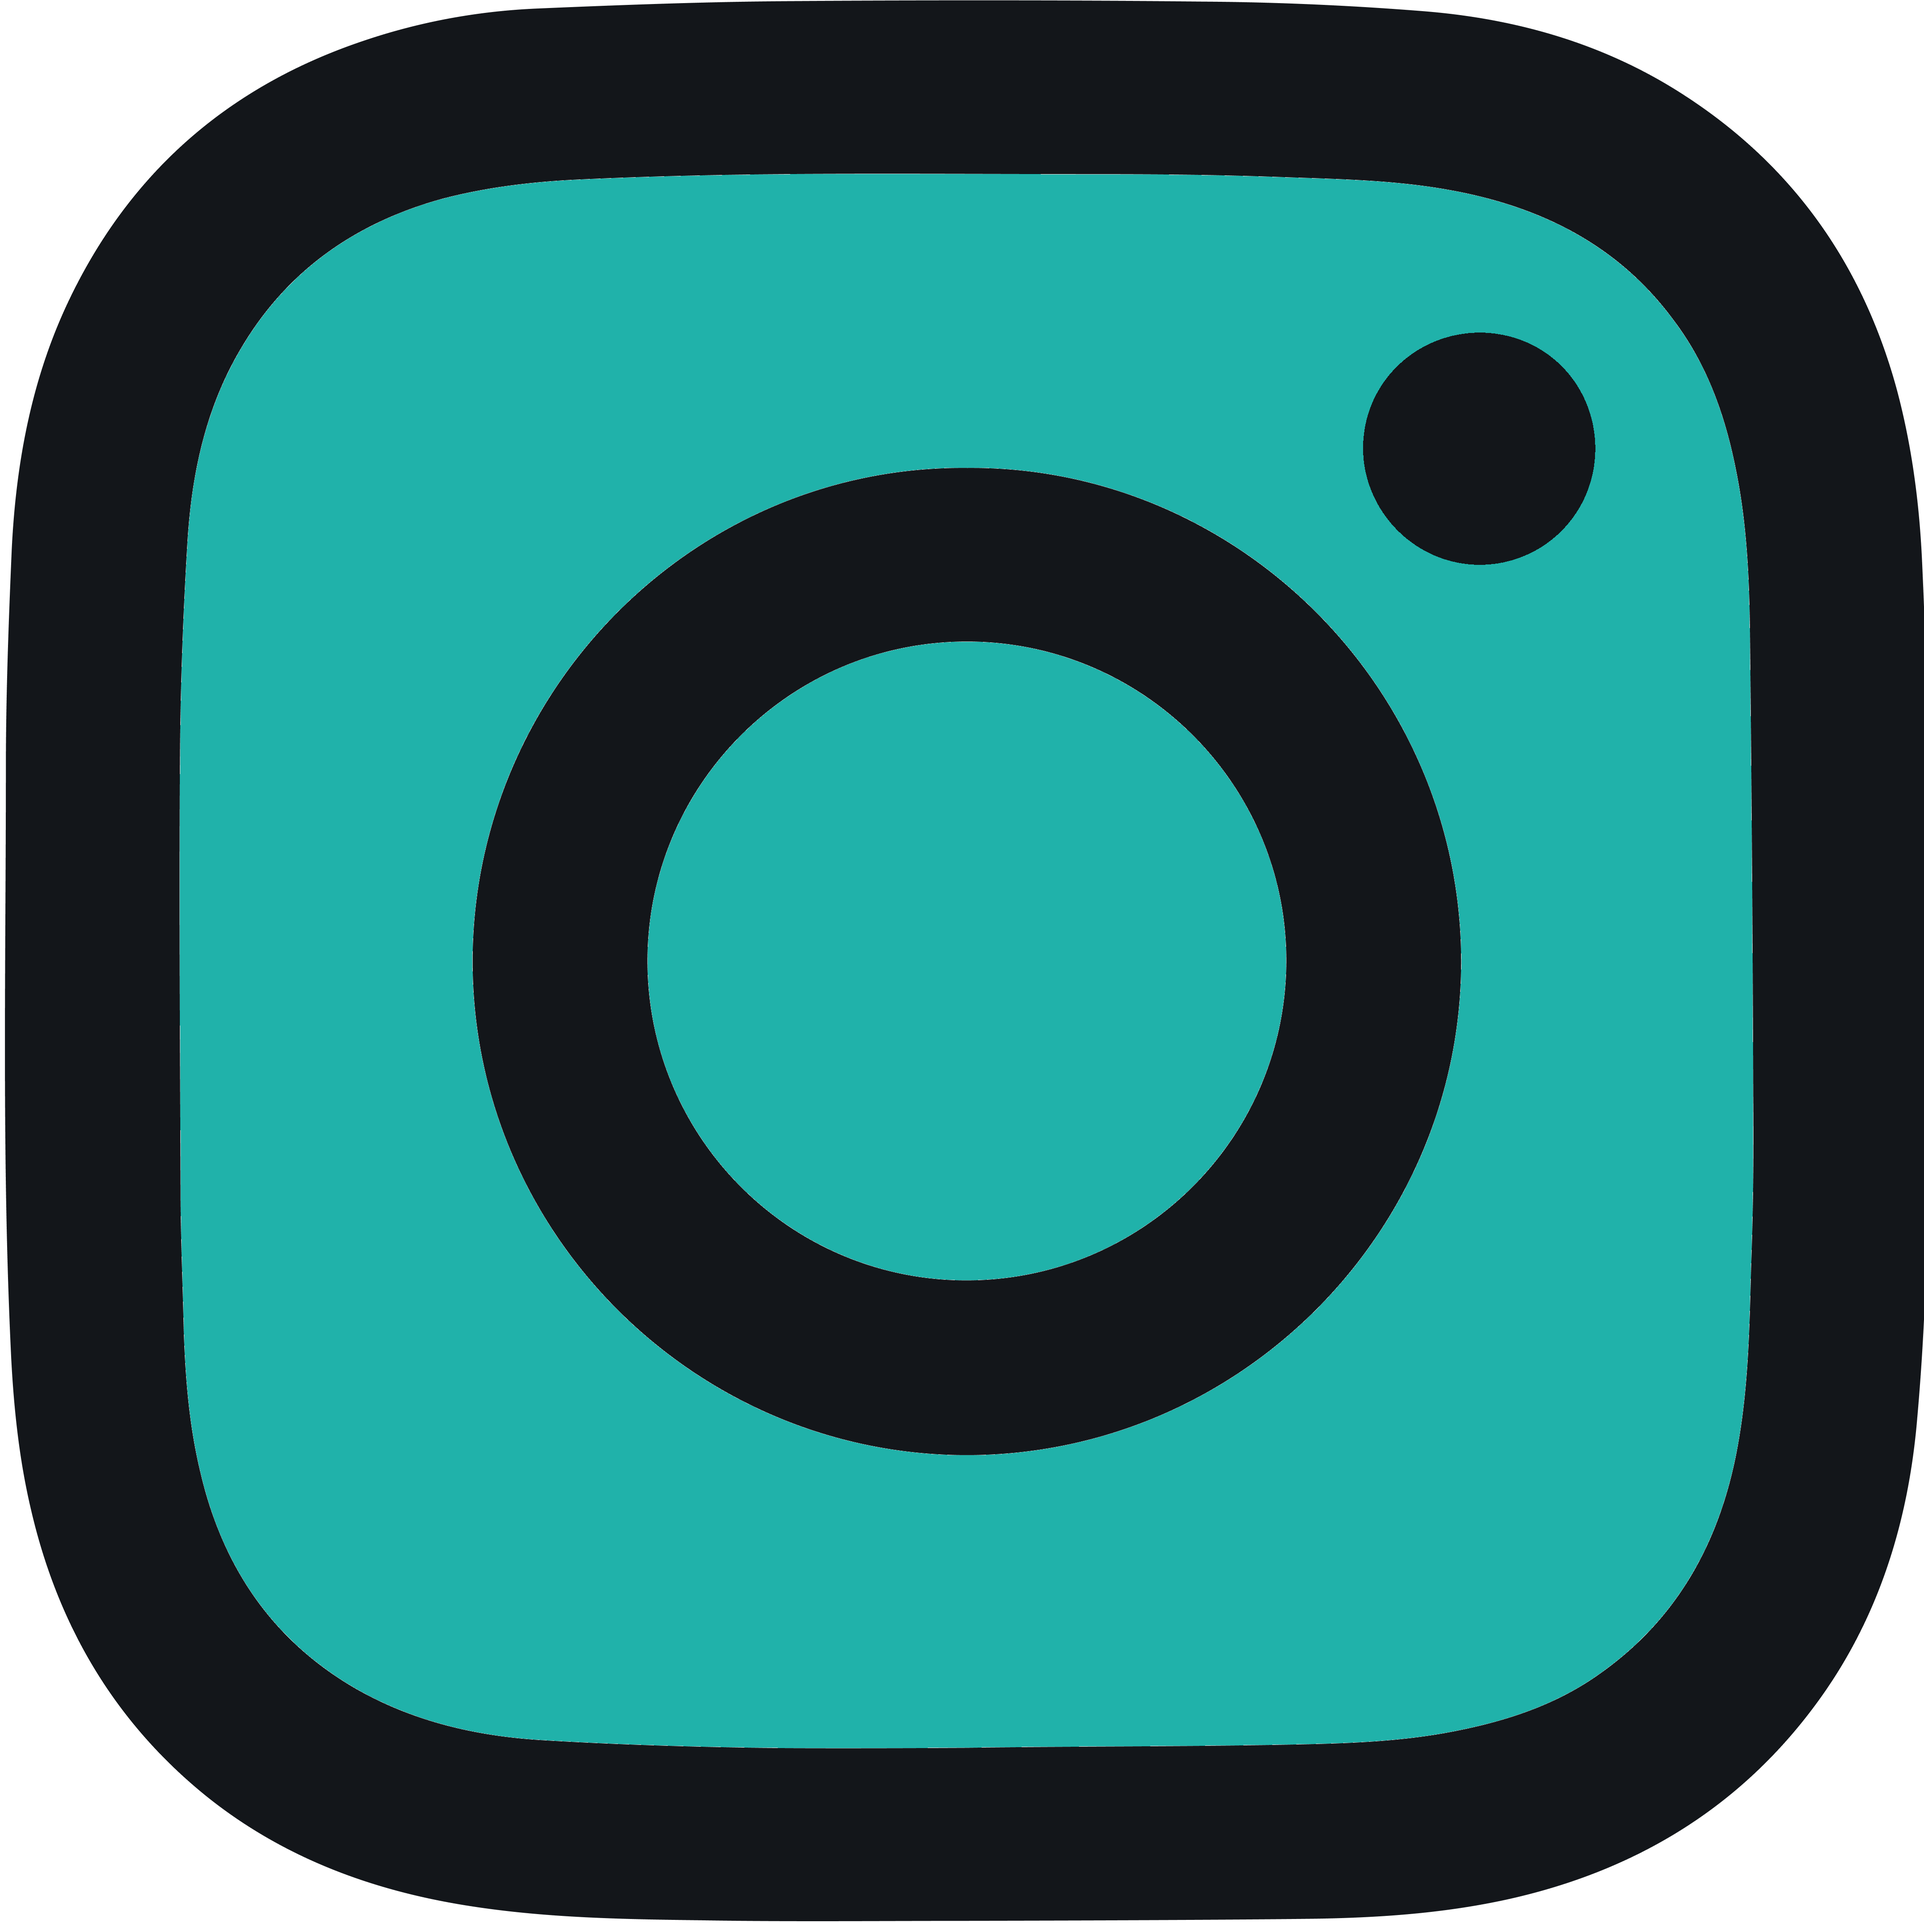
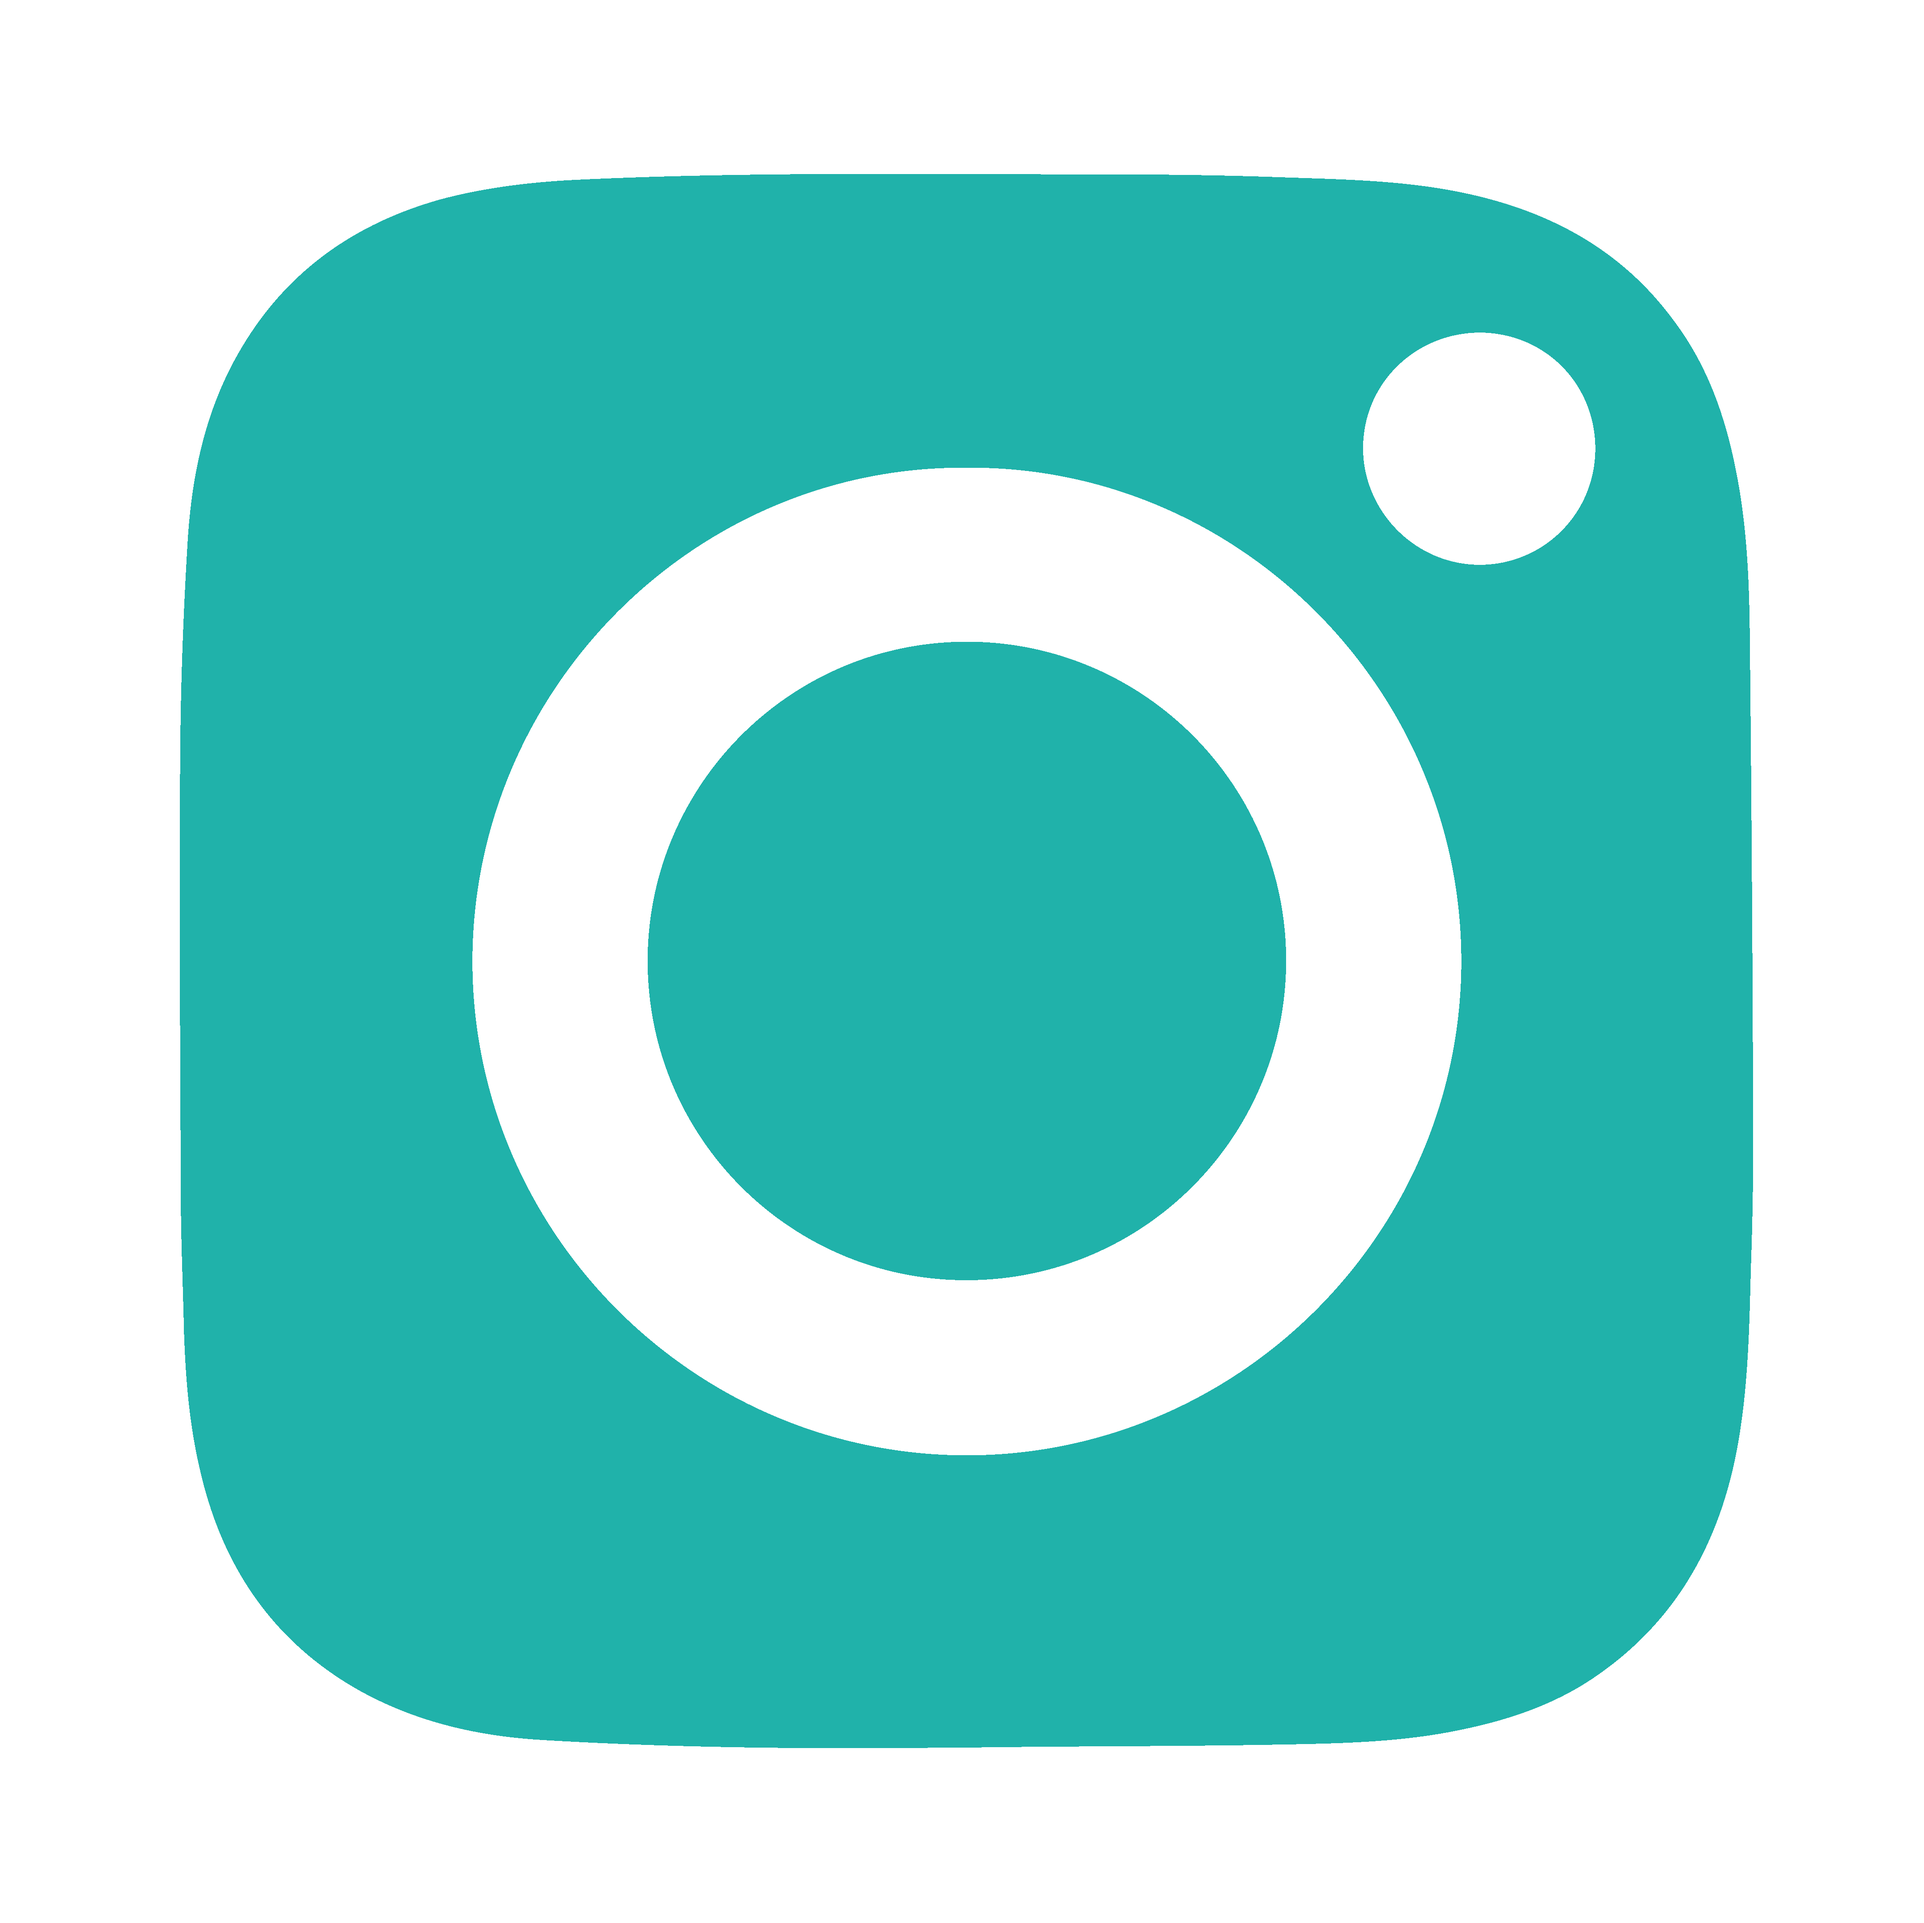
modo light

diff --git a/style.css b/style.css
@@ -316,7 +316,8 @@ input[type = 'submit']:hover{
     border-radius: 50%;
     background-size: cover;
     transition: .3s;
-    background-color:#13161A ;
+    background-color:transparent ;
+    cursor: pointer;
 
 }
 
@@ -336,6 +337,70 @@ input[type = 'submit']:hover{
 
 .instagram{
     background-image: url(img/instagram.png);
+}
+
+
+
+
+
+
+
+
+/*MODO ESCURO\CLARO*/
+
+.marcador{
+    width: 100px;
+    height: 30px;
+    background-color: transparent;
+    border-radius: 30px;
+    position: relative;
+    transition: .5s;
+    box-shadow: 0 2px 5px lightseagreen;
+}
+
+.indicador{
+    width: 30px;
+    height: 30px;
+    background-color: lightseagreen;
+    border-radius: 50%;
+    transform: scale(.9);
+    cursor: pointer;
+    position: absolute;
+    left: 0;
+    transition: .5s;
+}
+
+.marcador.light .indicador{
+    left: 70px;
+}
+
+.marcador.light{
+    background-color: white;
+}
+
+body.light{
+    background-color: white;
+    color: black;
+}
+
+body.light header{
+    background-color: white;
+}
+
+body.light #topo h1{
+    color: black;
+}
+
+body.light #habilidades h2{
+    color: black;
+}
+
+body.light #projetos h2{
+    color: black;
+}
+
+body.light #projetos .overlay{
+    color: white;
 }
 
 
@@ -423,6 +488,7 @@ input[type = 'submit']:hover{
         text-decoration:none;
 
     }
+
 
     .menu-mobile ul li a:hover{
         color: lightseagreen;
@@ -525,4 +591,24 @@ input[type = 'submit']:hover{
     }
 
 
+
+
+
+
+    /* MODO LIGHT */
+
+
+    body.light .menu-mobile{
+        background-color: white;
+    }
+
+
+    body.light .menu-mobile ul li a{
+        color:black;
+    }
+
+    body.light .menu-mobile ul li a:hover{
+        color: lightseagreen;
+        
+    }
 }

diff --git a/script.js b/script.js
@@ -2,9 +2,19 @@ let btn = document.getElementById('btn-menu');
 let menu = document.getElementById('menu-mobile');
 
 btn.addEventListener('click',()=>{
-    menu.classList.add('abrir_menu')
+    menu.classList.add('abrir_menu');
 })
 
 menu.addEventListener('click',()=>{
-    menu.classList.remove('abrir_menu')
+    menu.classList.remove('abrir_menu');
+})
+
+
+
+let marcador = document.getElementById('marcador');
+let body = document.querySelector('body');
+
+marcador.addEventListener('click',()=>{
+    marcador.classList.toggle('light');
+    body.classList.toggle('light')
 })

diff --git a/index.html b/index.html
@@ -50,6 +50,16 @@
 
             </div>
 
+
+
+          
+                <div class="marcador" id="marcador">
+                    <div class="indicador" id="indicador">
+
+                    </div>
+                </div>
+            
+
         </header>
        </section>
 
